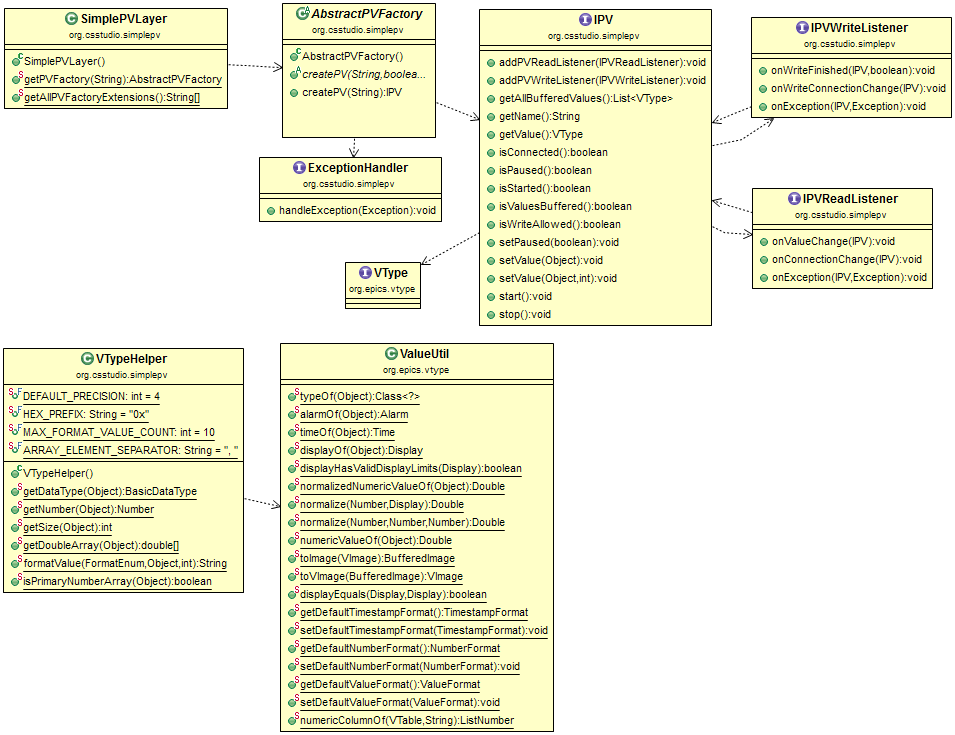
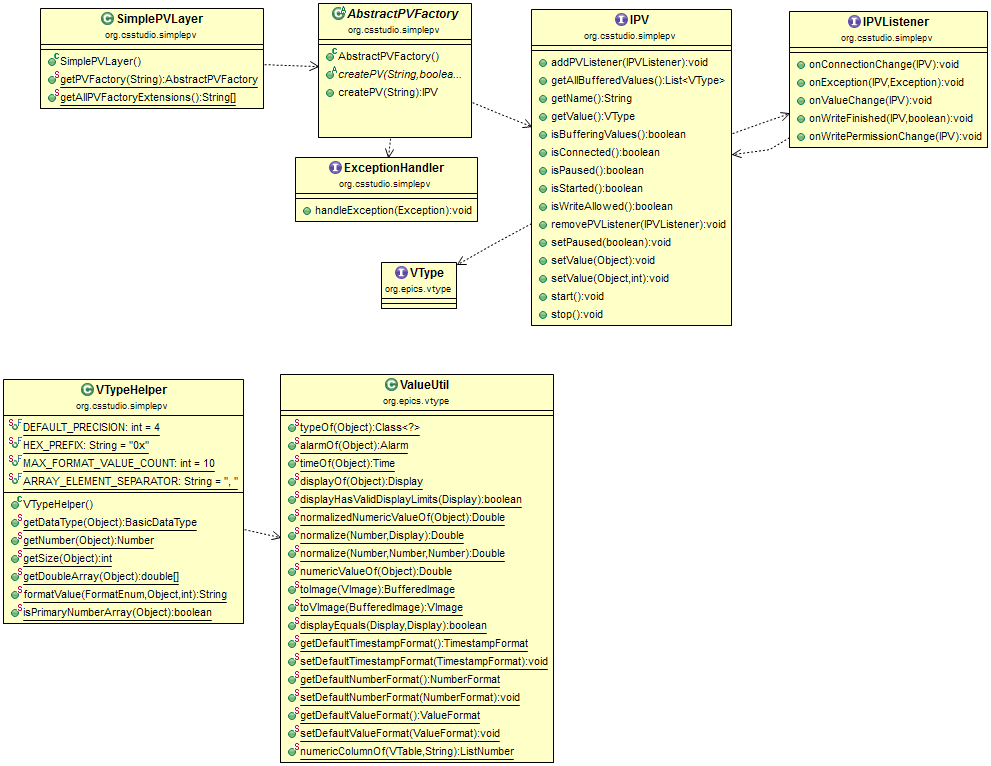
simplepv: adjustments on IPV interface

Changed region(s): [[0.0, 0.0, 1.0, 1.0]]

diff --git a/core/plugins/org.csstudio.simplepv/src/org/csstudio/simplepv/IPV.java b/core/plugins/org.csstudio.simplepv/src/org/csstudio/simplepv/IPV.java
@@ -16,26 +16,20 @@ import org.epics.vtype.ValueUtil;
 /**
  * A simple PV interface for common UI applications. <p>
  * <b>Note:</b> Implementations should make sure all methods are thread safe.
- * @author                     Xihui Chen
+ * @author  Xihui Chen
  */
 public interface IPV {
 
-	/**Add a read listener to the PV,
-	 * which will be notified on value or connection change in notify thread. 
-	 * @param listener the listener
-	 */
-	public void addPVReadListener(IPVReadListener listener);
 
-	/**Add a write listener to the PV, which will be notified on
-	 * write event in notify thread.
+	/**Add a listener to the PV, which will be notified on
+	 * events of the PV in the given notify thread.
 	 * @param listener the listener
 	 */
-	public void addPVWriteListener(IPVWriteListener listener);
+	public void addPVListener(IPVListener listener);
 
 	/**
-	 * Get all values that were buffered during the update period. If value is
-	 * not buffered, it should return a single item list that has the latest
-	 * value.
+	 * Get all values that were buffered in last update cycle that has values. If value is
+	 * not buffered, it should return a single item list that wraps {@link #getValue()}
 	 * 
 	 * @return all values buffered. It can be null.
 	 * @throws Exception on error.
@@ -50,18 +44,23 @@ public interface IPV {
 	public String getName();
 
 	/**
-	 * Get the most recent value of the PV. If {@link #isValuesBuffered()} is false,
-	 * this should return the latest value of the PV, which should be a
-	 * {@link VType} value, otherwise, it should return a
-	 * {@link List} of all the values buffered during the update period.
+	 * Get the most recent value of the PV in last update cycle that has values.	 * 
 	 * {@link VTypeHelper} and {@link ValueUtil} can be used to get the number
-	 * value, string value, alarm, display, time stamp etc. from the value and
+	 * or string value, alarm, display, time stamp etc. from the {@link VType} value and
 	 * help to format the value.
 	 * 
-	 * @return value of the PV. It can be null.
+	 * @return value of the PV. It can be null even the PV is connected. For example, 
+	 * the value is not prepared yet or it has null as the initial value.
 	 * @throws Exception on error.
 	 */
 	public VType getValue() throws Exception;
+
+	/**
+	 * Return true if all values during an update period should be buffered.
+	 * 
+	 * @return true if all values should be buffered.
+	 */
+	public boolean isBufferingValues();
 
 	/**If the PV is connected. If the PV is an aggregate of multiple PVs,
 	 * the connection state should be determined by the aggregator. For example,
@@ -71,8 +70,9 @@ public interface IPV {
 	 */
 	public boolean isConnected();
 
-	/**
-	 * @return true if the PV is paused or false otherwise.
+	/**If the pv is paused. When a pv is paused, it will stop sending notifications to listeners
+	 * while keeps connected.
+	 * @return true if the PV is paused or false if the pv is not started or not paused.
 	 */
 	public boolean isPaused();
 
@@ -82,17 +82,16 @@ public interface IPV {
 	 */
 	public boolean isStarted();
 
-	/**
-	 * Return true if all values during the update period should be buffered.
-	 * 
-	 * @return true if all values should be buffered.
-	 */
-	public boolean isValuesBuffered();
-
 	/** @return <code>true</code> if the PV is connected and allowed to write.*/
     public boolean isWriteAllowed();
 	
 	
+    
+    /**Remove a pv listener.
+     * @param listener the listener to be removed.
+     */
+    public void removePVListener(IPVListener listener);
+    
 	/**
 	 * Pause notifications while keep the connection.
 	 * 
@@ -110,16 +109,6 @@ public interface IPV {
      */
     public void setValue(Object value) throws Exception;
 	
-
-    /** Set PV to a given value synchronously.
-     *  Should accept number, number array,
-     *  <code>String</code>, maybe more.
-     *  @param value Value to write to the PV
-     *  @param timeout timeout for pv connection and write operation.
-     *  @throws Exception on error.
-     */
-    public void setValue(Object value, int timeout) throws Exception;
-	
     
     /**
 	 * Start to connect and listen on the PV.
@@ -127,8 +116,9 @@ public interface IPV {
 	public void start() throws Exception;
     
     /**
-	 * Stop the connection. When the PV is no longer needed, one should stop it
-	 * to release resources. It has no effect if the pv was stopped.
+	 * Stop the connection and remove all listeners. 
+	 * When the PV is no longer needed, one should stop it
+	 * to release resources. It has no effect if the pv has been stopped already.
 	 */
 	public void stop();
 

diff --git a/core/plugins/org.csstudio.simplepv/src/org/csstudio/simplepv/IPVListener.java b/core/plugins/org.csstudio.simplepv/src/org/csstudio/simplepv/IPVListener.java
@@ -1,0 +1,60 @@
+/*******************************************************************************
+ * Copyright (c) 2013 Oak Ridge National Laboratory.
+ * All rights reserved. This program and the accompanying materials
+ * are made available under the terms of the Eclipse Public License v1.0
+ * which accompanies this distribution, and is available at
+ * http://www.eclipse.org/legal/epl-v10.html
+ ******************************************************************************/
+
+package org.csstudio.simplepv;
+
+/**A listener on all events of the PV.
+ * @author Xihui Chen
+ *
+ */
+public interface IPVListener{
+
+	/**
+	 * An empty implementation of {@link IPVListener} for convenience.
+	 *
+	 */
+	public class Stub implements IPVListener{
+		public void connectionChanged(IPV pv) {}
+		public void exceptionOccurred(IPV pv, Exception exception) {}
+		public void valueChanged(IPV pv){}
+		public void writeFinished(IPV pv, boolean isWriteSucceeded){}
+		public void writePermissionChanged(IPV pv){}		
+	}
+	
+	/**Will be called when connection state changed.
+	 * @param pv the pv whose connection state changed.
+	 */
+	void connectionChanged(IPV pv);
+	
+	/**If no {@link ExceptionHandler} was given to the PV,
+	 * this method will be called when exception happened.
+	 * Otherwise, the exception will be handled by the {@link ExceptionHandler}.
+	 * @param pv the pv which has read related exception happened.
+	 * @param exception the exception that has been caught.
+	 */
+	void exceptionOccurred(IPV pv, Exception exception);
+	
+	/**Will be called when PV value changed.
+	 * @param pv the pv whose value has changed.
+	 */
+	void valueChanged(IPV pv);
+	
+	/**Will be called when a write is finished. 
+	 * @param pv the pv on which the write event happened.
+	 * @param isWriteSucceeded true if the write was successful.
+	 */
+	void writeFinished(IPV pv, boolean isWriteSucceeded);	
+	
+
+	/**Will be called when write permission <b>may</b> have changed. The write
+	 * permission can be get from {@link IPV#isWriteAllowed()}
+	 * @param pv the pv whose permission may have changed.
+	 */
+	void writePermissionChanged(IPV pv);
+
+}
